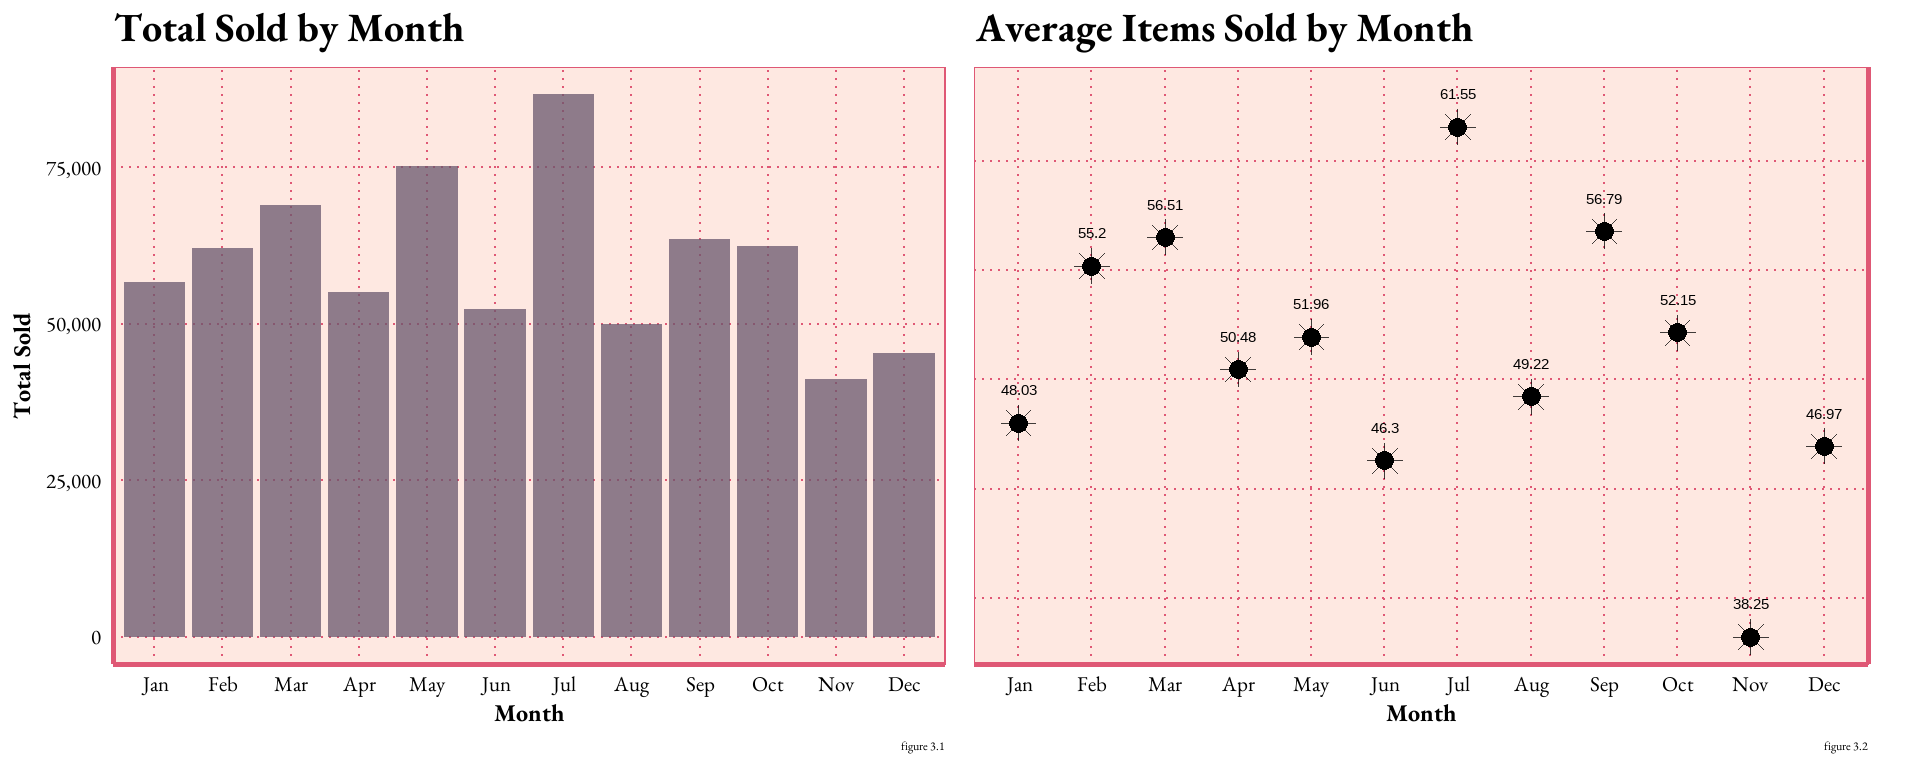
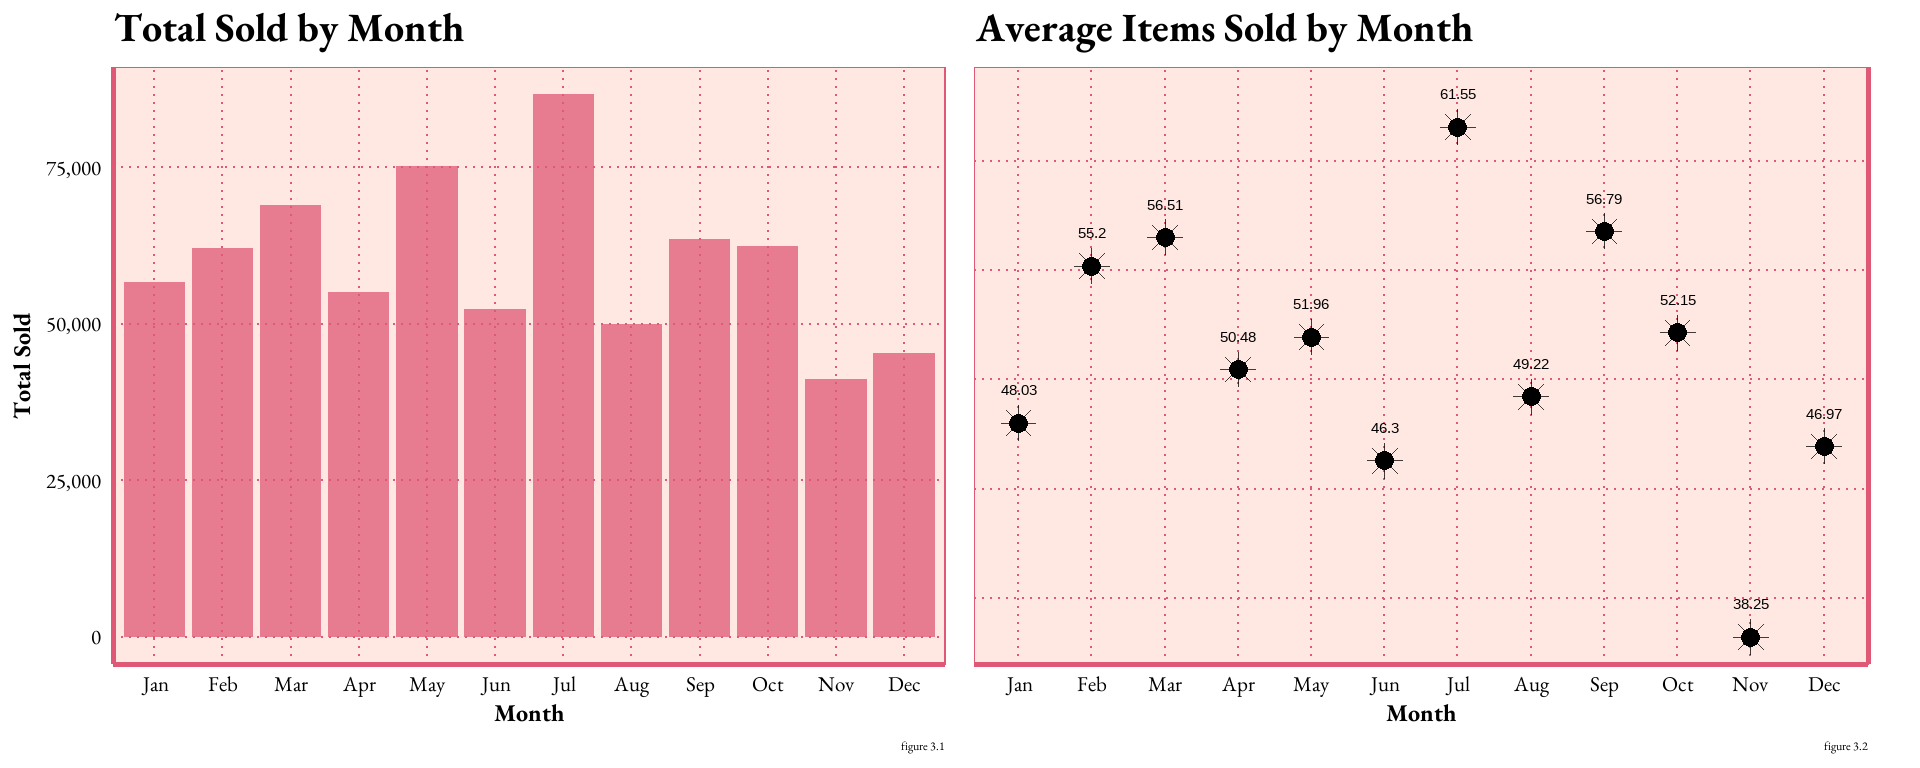
lunch time antics

Changed region(s): [[0.0625, 0.125, 0.5, 0.8438]]

diff --git a/docs/sections/glmv1/pi.html b/docs/sections/glmv1/pi.html
@@ -237,10 +237,12 @@ pre > code.sourceCode > span > a:first-child::before { text-decoration: underlin
 <p>DRAFT DRAFT LESS OUTLINE MORE WRITING</p>
 <section id="project-overview" class="level1">
 <h1>Project Overview</h1>
-<p>Throughout this project, I showcase the practical application of predictive analytics by utilizing statistical methods. I focus on unraveling temporal sales patterns to anticipate future consumer demand. Ultimately, this project demonstrates how analytics fuels the decision-making processes with forecasts and strategic insights.</p>
-<p>While the primary aim of the project is demonstrating the foundations of statistical modeling, it also serves as a platform for expanding other essential data science competencies. Leveraging R, I’ve not only engineered novel data sets, but also enhanced my knowledge in the areas of data wrangling and visualization design.</p>
-<p>Overall, this project showcases more than current competencies; rather, it represents my potential for continuous growth and adaptability in the ever-evolving field of data science and machine learning. It marks the acquisition of new skills developed over the course of the semester, complementing my years spent cultivating my craft of compelling data storytelling.</p>
-<p>[insert image final ] <strong>goal</strong>: forecast the inventory for the upcoming year</p>
+<p>“Welcome to my Stats 631 final project!</p>
+<p>This digital portfolio is not only a testament to my proficiency in applied statistical methods, but also an embodiment of my capacity for continuous growth and adaptability in the dynamic field of data science and machine learning. It marks the acquisition of new skills developed throughout the 2023 summer semester, complementing my years in the workforce, cultivating my craft of descriptive analytic communication (<strong>aka data storytelling</strong>)</p>
+<p>At its heart, this project is a canvas on where I present one case study for predictive statistical modeling. Leveraging the R programming language, I conducted model selection and broadened my expertise in data wrangling, visualization, and design aesthetics.</p>
+<p>More specifically, this document guides you through a time series inventory prediction— the art of anticipating future consumer demand. Ultimately, it demonstrates how data empowers the decision-making process through forecasting and strategic insights. And remember,</p>
+<p><img src="../..\images/quotes_george-box_models-wrong-some-useful_tribal-simplicity.png" class="img-fluid" width="500"></p>
+<p><strong>goal</strong>: forecast the inventory for the upcoming year</p>
 <p><strong>limitations</strong>: ideally, time series predictions benefit from multi-year trending data sets. However, the data for this project encompasses merely 54 weeks.</p>
 <p>Additionally, my understanding of the data is constrained. For this project, I made certain assumptions about the time frame and inventory type. In practical scenarios, thorough consultation and collaboration with domain experts are essential components of any predictive analytics project.</p>
 <p><img src="../..\images/AdobeStock_184864827.jpeg" class="img-fluid"> <strong>this report contains:</strong></p>
@@ -312,8 +314,8 @@ pre > code.sourceCode > span > a:first-child::before { text-decoration: underlin
 <p><img src="pi_files/figure-html/unnamed-chunk-2-1.png" class="img-fluid" width="960"></p>
 </div>
 </div>
-<section id="figure-1.-the-histograms-demonstrate-the-distribution-of-the-dataset-by-variable.-the-green-histogram-demonstrates-the-frequency-of-each-item-sold-with-most-items-ranging-between-500-and-1300-in-total.-the-pink-histogram-conveys-the-temporal-dispersion-of-weekly-sales.-both-graphs-exhibit-a-right-skew-particularly-pronounced-in-the-green-histogram-implying-a-scarcity-of-high-sales-items-or-weeks." class="level6">
-<h6 class="anchored" data-anchor-id="figure-1.-the-histograms-demonstrate-the-distribution-of-the-dataset-by-variable.-the-green-histogram-demonstrates-the-frequency-of-each-item-sold-with-most-items-ranging-between-500-and-1300-in-total.-the-pink-histogram-conveys-the-temporal-dispersion-of-weekly-sales.-both-graphs-exhibit-a-right-skew-particularly-pronounced-in-the-green-histogram-implying-a-scarcity-of-high-sales-items-or-weeks."><strong>figure 1.</strong> <em>The histograms demonstrate the distribution of the dataset by variable. The green histogram demonstrates the frequency of each item sold, with most items ranging between 500 and 1300 in total. The pink histogram conveys the temporal dispersion of weekly sales. Both graphs exhibit a right skew, particularly pronounced in the green histogram, implying a scarcity of high-sales items or weeks.</em></h6>
+<section id="figure-1.-the-histograms-demonstrate-the-distribution-of-the-dataset-by-variable.-the-green-histogram-demonstrates-the-frequency-of-each-item-sold-with-most-items-ranging-between-500-and-1300-in-total.-the-purple-histogram-conveys-the-temporal-dispersion-of-weekly-sales.-both-graphs-exhibit-a-right-skew-particularly-pronounced-in-the-green-histogram-implying-a-scarcity-of-high-sales-items-or-weeks." class="level6">
+<h6 class="anchored" data-anchor-id="figure-1.-the-histograms-demonstrate-the-distribution-of-the-dataset-by-variable.-the-green-histogram-demonstrates-the-frequency-of-each-item-sold-with-most-items-ranging-between-500-and-1300-in-total.-the-purple-histogram-conveys-the-temporal-dispersion-of-weekly-sales.-both-graphs-exhibit-a-right-skew-particularly-pronounced-in-the-green-histogram-implying-a-scarcity-of-high-sales-items-or-weeks."><strong>figure 1.</strong> <em>The histograms demonstrate the distribution of the dataset by variable. The green histogram demonstrates the frequency of each item sold, with most items ranging between 500 and 1300 in total. The purple histogram conveys the temporal dispersion of weekly sales. Both graphs exhibit a right skew, particularly pronounced in the green histogram, implying a scarcity of high-sales items or weeks.</em></h6>
 <p><br>
 <br>
 <br>
@@ -448,7 +450,7 @@ pre > code.sourceCode > span > a:first-child::before { text-decoration: underlin
 <span id="cb3-77"><a href="#cb3-77" aria-hidden="true" tabindex="-1"></a>    <span class="fu">filter</span>(wk_ending_year <span class="sc">==</span> <span class="dv">2022</span>) <span class="sc">%&gt;%</span> </span>
 <span id="cb3-78"><a href="#cb3-78" aria-hidden="true" tabindex="-1"></a>    <span class="fu">mutate</span>(<span class="at">month =</span> <span class="fu">factor</span>(month, <span class="at">levels =</span> <span class="dv">1</span><span class="sc">:</span><span class="dv">12</span>, <span class="at">labels =</span> month_abbreviations)) <span class="sc">%&gt;%</span></span>
 <span id="cb3-79"><a href="#cb3-79" aria-hidden="true" tabindex="-1"></a>  <span class="fu">ggplot</span>(<span class="fu">aes</span>(<span class="at">x =</span> month, <span class="at">y =</span> sold)) <span class="sc">+</span></span>
-<span id="cb3-80"><a href="#cb3-80" aria-hidden="true" tabindex="-1"></a>  <span class="fu">geom_bar</span>(<span class="at">stat =</span> <span class="st">"sum"</span>, <span class="at">fill =</span> <span class="st">"#68576D"</span>, <span class="at">alpha =</span> <span class="fl">0.75</span>) <span class="sc">+</span></span>
+<span id="cb3-80"><a href="#cb3-80" aria-hidden="true" tabindex="-1"></a>  <span class="fu">geom_bar</span>(<span class="at">stat =</span> <span class="st">"sum"</span>, <span class="at">fill =</span> <span class="st">"#DF5875"</span>, <span class="at">alpha =</span> <span class="fl">0.75</span>) <span class="sc">+</span></span>
 <span id="cb3-81"><a href="#cb3-81" aria-hidden="true" tabindex="-1"></a>  <span class="fu">labs</span>(<span class="at">x =</span> <span class="st">"Month"</span>, <span class="at">y =</span> <span class="st">"Total Sold"</span>, <span class="at">title =</span> <span class="st">"Total Sold by Month"</span>,</span>
 <span id="cb3-82"><a href="#cb3-82" aria-hidden="true" tabindex="-1"></a>       <span class="at">caption =</span>  <span class="st">" figure 3.1"</span>) <span class="sc">+</span></span>
 <span id="cb3-83"><a href="#cb3-83" aria-hidden="true" tabindex="-1"></a>  <span class="fu">scale_y_continuous</span>(<span class="at">labels =</span> scales<span class="sc">::</span><span class="fu">comma_format</span>()) <span class="sc">+</span></span>
@@ -474,8 +476,8 @@ pre > code.sourceCode > span > a:first-child::before { text-decoration: underlin
 <p><img src="pi_files/figure-html/unnamed-chunk-4-1.png" class="img-fluid" width="960"></p>
 </div>
 </div>
-<section id="figure-3.-the-bar-graph-displays-the-total-sales-volume-by-month.-july-stands-out-as-the-peak-season-whereas-november-and-december-show-lower-inventory-movement.-u.-however-the-average-number-of-items-sold-in-a-month-is-relatively-low-compared-to-the-totals.-this-suggests-the-presence-of-numerous-zeros-which-are-affecting-the-overall-average." class="level6">
-<h6 class="anchored" data-anchor-id="figure-3.-the-bar-graph-displays-the-total-sales-volume-by-month.-july-stands-out-as-the-peak-season-whereas-november-and-december-show-lower-inventory-movement.-u.-however-the-average-number-of-items-sold-in-a-month-is-relatively-low-compared-to-the-totals.-this-suggests-the-presence-of-numerous-zeros-which-are-affecting-the-overall-average."><strong>figure 3.</strong> <em>The bar graph displays the total sales volume by month. July stands out as the peak season, whereas November and December show lower inventory movement. U. However, the average number of items sold in a month is relatively low compared to the totals. This suggests the presence of numerous zeros, which are affecting the overall average.</em></h6>
+<section id="figure-3.-the-bar-graph-displays-the-total-sales-volume-by-month.-july-stands-out-as-the-peak-season-whereas-november-and-december-show-lower-inventory-movement.-however-the-average-number-of-items-sold-in-a-month-is-relatively-low-compared-to-the-totals.-this-suggests-the-presence-of-numerous-zeros-which-are-affecting-the-overall-average." class="level6">
+<h6 class="anchored" data-anchor-id="figure-3.-the-bar-graph-displays-the-total-sales-volume-by-month.-july-stands-out-as-the-peak-season-whereas-november-and-december-show-lower-inventory-movement.-however-the-average-number-of-items-sold-in-a-month-is-relatively-low-compared-to-the-totals.-this-suggests-the-presence-of-numerous-zeros-which-are-affecting-the-overall-average."><strong>figure 3.</strong> <em>The bar graph displays the total sales volume by month. July stands out as the peak season, whereas November and December show lower inventory movement. However, the average number of items sold in a month is relatively low compared to the totals. This suggests the presence of numerous zeros, which are affecting the overall average.</em></h6>
 <div class="cell">
 <details>
 <summary>Code</summary>
@@ -613,7 +615,7 @@ pre > code.sourceCode > span > a:first-child::before { text-decoration: underlin
 </section>
 <section id="model-feature-selection" class="level2">
 <h2 class="anchored" data-anchor-id="model-feature-selection">Model Feature Selection</h2>
-<p>The next step of the project involves selecting the best model using stepwise selection. It’s an iterative process of adding and removing predictors based on their statistical significance. However, it should be used with caution. The inclusion of irrelevant variables can lead to unnecessary complexity in the resulting model and can inflate the variance of prediction errors.</p>
+<p>The next step of the project involves selecting the best model using stepwise selection. It’s the iterative process of adding and removing predictors based on their statistical significance. However, it should be used with caution. The inclusion of irrelevant variables can lead to unnecessary complexity in the resulting model and can inflate the variance of prediction errors.</p>
 <div class="cell">
 <details>
 <summary>Code</summary>
@@ -657,7 +659,8 @@ pre > code.sourceCode > span > a:first-child::before { text-decoration: underlin
 <span id="cb8-38"><a href="#cb8-38" aria-hidden="true" tabindex="-1"></a>  <span class="fu">cols_align</span>(<span class="at">align =</span> <span class="st">"center"</span>, <span class="at">columns =</span> rss) <span class="sc">%&gt;%</span></span>
 <span id="cb8-39"><a href="#cb8-39" aria-hidden="true" tabindex="-1"></a>  <span class="fu">opt_all_caps</span>() <span class="sc">%&gt;%</span> </span>
 <span id="cb8-40"><a href="#cb8-40" aria-hidden="true" tabindex="-1"></a>  <span class="fu">opt_table_font</span>(</span>
-<span id="cb8-41"><a href="#cb8-41" aria-hidden="true" tabindex="-1"></a>    <span class="at">font =</span> <span class="fu">google_font</span>(<span class="at">name =</span> <span class="st">"EB Garamond"</span>))</span></code><button title="Copy to Clipboard" class="code-copy-button"><i class="bi"></i></button></pre></div>
+<span id="cb8-41"><a href="#cb8-41" aria-hidden="true" tabindex="-1"></a>    <span class="at">font =</span> <span class="fu">google_font</span>(<span class="at">name =</span> <span class="st">"EB Garamond"</span>)) <span class="sc">%&gt;%</span> </span>
+<span id="cb8-42"><a href="#cb8-42" aria-hidden="true" tabindex="-1"></a>  <span class="fu">tab_source_note</span>(<span class="at">source_note =</span> <span class="fu">md</span>(<span class="st">"Table 1"</span>))</span></code><button title="Copy to Clipboard" class="code-copy-button"><i class="bi"></i></button></pre></div>
 </details>
 <div class="cell-output-display">
 
@@ -1262,7 +1265,11 @@ pre > code.sourceCode > span > a:first-child::before { text-decoration: underlin
 <td headers="stub_1_11 4WK ROLLING AVG" class="gt_row gt_right">*</td>
 <td headers="stub_1_11 BEST SELLER" class="gt_row gt_right">*</td></tr>
   </tbody>
-  
+  <tfoot class="gt_sourcenotes">
+    <tr>
+      <td class="gt_sourcenote" colspan="12">Table 1</td>
+    </tr>
+  </tfoot>
   
 </table>
 </div>
@@ -1272,8 +1279,27 @@ pre > code.sourceCode > span > a:first-child::before { text-decoration: underlin
 <div class="sourceCode cell-code" id="cb9"><pre class="sourceCode r code-with-copy"><code class="sourceCode r"><span id="cb9-1"><a href="#cb9-1" aria-hidden="true" tabindex="-1"></a> <span class="co"># caption = table 1 </span></span></code><button title="Copy to Clipboard" class="code-copy-button"><i class="bi"></i></button></pre></div>
 </details>
 </div>
-<section id="table-1.-the-stepwise-selection-went-through-an-exhaustive-process-to-chose-the-best-2-models-by-number-of-predictors-explain-xyx" class="level6">
-<h6 class="anchored" data-anchor-id="table-1.-the-stepwise-selection-went-through-an-exhaustive-process-to-chose-the-best-2-models-by-number-of-predictors-explain-xyx"><strong>table 1. the stepwise selection went through an exhaustive process to chose the best 2 models by number of predictors, explain xyx</strong></h6>
+<section id="table-1.-the-stepwise-selection-went-through-an-exhaustive-process-to-chose-the-best-2-models-by-number-of-predictors-the-table-above-shows-the-comparison-summary-of-the-best-models.-each-row-represents-a-model-configuration-specified-by-the-model-type-a-or-b-and-the-predictor-variables-used-week-month-lag1-lag2-4-week-rolling-average-best-seller.-the-table-displays-several-goodness-of-fit-statistics-for-each-model-including-the-coefficient-of-determination-r-square-the-adjusted-r-square-the-mallows-cp-and-the-residual-sum-of-squares-rss.-an-asterisk-in-the-predictors-columns-indicates-that-the-predictor-was-included-in-the-model." class="level6">
+<h6 class="anchored" data-anchor-id="table-1.-the-stepwise-selection-went-through-an-exhaustive-process-to-chose-the-best-2-models-by-number-of-predictors-the-table-above-shows-the-comparison-summary-of-the-best-models.-each-row-represents-a-model-configuration-specified-by-the-model-type-a-or-b-and-the-predictor-variables-used-week-month-lag1-lag2-4-week-rolling-average-best-seller.-the-table-displays-several-goodness-of-fit-statistics-for-each-model-including-the-coefficient-of-determination-r-square-the-adjusted-r-square-the-mallows-cp-and-the-residual-sum-of-squares-rss.-an-asterisk-in-the-predictors-columns-indicates-that-the-predictor-was-included-in-the-model.">**table 1. the stepwise selection went through an exhaustive process to chose the best 2 models by number of predictors, the table above shows the comparison summary of the best models. Each row represents a model configuration, specified by the model type (a or b) and the predictor variables used (week, month, lag1, lag2, 4-week rolling average, best seller). The table displays several goodness-of-fit statistics for each model, including the coefficient of determination (R-square), the adjusted R-square, the Mallows’ Cp, and the residual sum of squares (RSS). An asterisk (*) in the predictors’ columns indicates that the predictor was included in the model.”**</h6>
+<p><strong>interpretations</strong>:</p>
+<p>RSQ, ADJR2, CP, RSS; these are measures for evaluating and comparing the goodness of fit.These metrics should not be used blindly but together in the context with other measures and domain knowledge.</p>
+</section>
+<section id="rsq-r-squared-proportion-of-explained-variance" class="level3">
+<h3 class="anchored" data-anchor-id="rsq-r-squared-proportion-of-explained-variance"><strong>RSQ (R-squared)</strong> proportion of explained variance:</h3>
+<p>When R-squared is high, it indicates that the model can explain a lot of the variability in the outcome, which means the prediction error is small. However, a low R-squared indicates that the model doesn’t explain much of the variability in the outcome, implying larger residuals.</p>
+<p>Based on the model summary, models 3a, 4a, 4b, 5a, 5b, and 6a all have the highest R-squared values of 0.6, indicating that these models explain a significant portion of the variance in the outcome variable.</p>
+</section>
+<section id="adjr2-adjusted-r-squared-tradeoff-between-model-complexity-and-goodness-of-fit" class="level3">
+<h3 class="anchored" data-anchor-id="adjr2-adjusted-r-squared-tradeoff-between-model-complexity-and-goodness-of-fit"><strong>ADJR2 (Adjusted R-squared)</strong> tradeoff between model complexity and goodness of fit:</h3>
+<p>The adjusted R-squared is a modified version of R-squared that adjusts for the number of predictors in the model. Unlike R-squared, it incorporates the model’s degrees of freedom. The adjusted R-squared value only increases if the new variable improves the model more than expected by chance, and it decreases when a predictor improves the model less than expected by chance. Thus, a lower adjusted R-squared can often be due to large residuals, especially when the model is overly complex (i.e., includes too many predictors).</p>
+<p>As per the model summary, models 3a, 4a, 4b, 5a, 5b, and 6a all have the highest adjusted R-squared values of 0.6, showing that these models balance model complexity and goodness-of-fit reasonably well.</p>
+</section>
+<section id="cp-mallows-cp-bias-or-the-prediction-error" class="level3">
+<h3 class="anchored" data-anchor-id="cp-mallows-cp-bias-or-the-prediction-error"><strong>Cp (Mallows’ Cp)</strong> bias or the prediction error:</h3>
+<p>the model will not fit the data very well if the predictions are way off which leads to large residuals</p>
+<p>Based on the model summary, model 5a has the lowest Cp. A Cp value close to the total number of predictors suggests that the model is well-fitted. Lower values indicate a better model fit. What it does is it estimates the magnitude of bias, in this case, prediction error, present in predicted values when important features are missing. So, we’re measuring large residuals.</p>
+<p>### <strong>RSS (Residual Sum of Squares)</strong> total prediction error: When the RSS is high, it means the predictions are far off from the actual values, which results in large residuals.</p>
+<p>Model 6a has the lowest RSS value of 218,998,262. This indicates that among all the models, model 6a’s predictions are closest to the actual values, leading to smaller residuals.</p>
 </section>
 <section id="model-evaluation" class="level3">
 <h3 class="anchored" data-anchor-id="model-evaluation">Model Evaluation</h3>
@@ -1304,7 +1330,7 @@ pre > code.sourceCode > span > a:first-child::before { text-decoration: underlin
 </details>
 </div>
 <section id="figure-6.-explain-this-graph" class="level6">
-<h6 class="anchored" data-anchor-id="figure-6.-explain-this-graph"><strong>Figure 6. explain this graph </strong></h6>
+<h6 class="anchored" data-anchor-id="figure-6.-explain-this-graph"><strong>Figure 6. explain this graph</strong></h6>
 <p>I see that the more predictors the great the adjr2 and the lower the cp, which is be expected. there appears to be diminishing returns at 4 predictors.</p>
 <p>model a has more optimal score on this compared to model b</p>
 <p>why too many predictors are bad reason xyz</p>
@@ -1898,7 +1924,7 @@ pre > code.sourceCode > span > a:first-child::before { text-decoration: underlin
 </div>
 </section>
 <section id="table-2.-explain-this-table" class="level6">
-<h6 class="anchored" data-anchor-id="table-2.-explain-this-table"><strong>table 2. explain this table </strong></h6>
+<h6 class="anchored" data-anchor-id="table-2.-explain-this-table"><strong>table 2. explain this table</strong></h6>
 <p>interpret the results</p>
 <div class="cell">
 <details>
@@ -1914,7 +1940,7 @@ pre > code.sourceCode > span > a:first-child::before { text-decoration: underlin
 </div>
 </section>
 <section id="figure-7.-explain-this-graph" class="level6">
-<h6 class="anchored" data-anchor-id="figure-7.-explain-this-graph"><strong>Figure 7. explain this graph </strong></h6>
+<h6 class="anchored" data-anchor-id="figure-7.-explain-this-graph"><strong>Figure 7. explain this graph</strong></h6>
 <p>compare the train model against the test</p>
 <div class="cell">
 <details>
@@ -1943,7 +1969,7 @@ pre > code.sourceCode > span > a:first-child::before { text-decoration: underlin
 </div>
 </section>
 <section id="figure-8.-explain-this-graph" class="level6">
-<h6 class="anchored" data-anchor-id="figure-8.-explain-this-graph"><strong>Figure 8. explain this graph </strong></h6>
+<h6 class="anchored" data-anchor-id="figure-8.-explain-this-graph"><strong>Figure 8. explain this graph</strong></h6>
 </section>
 </section>
 <section id="conclusion" class="level3">
